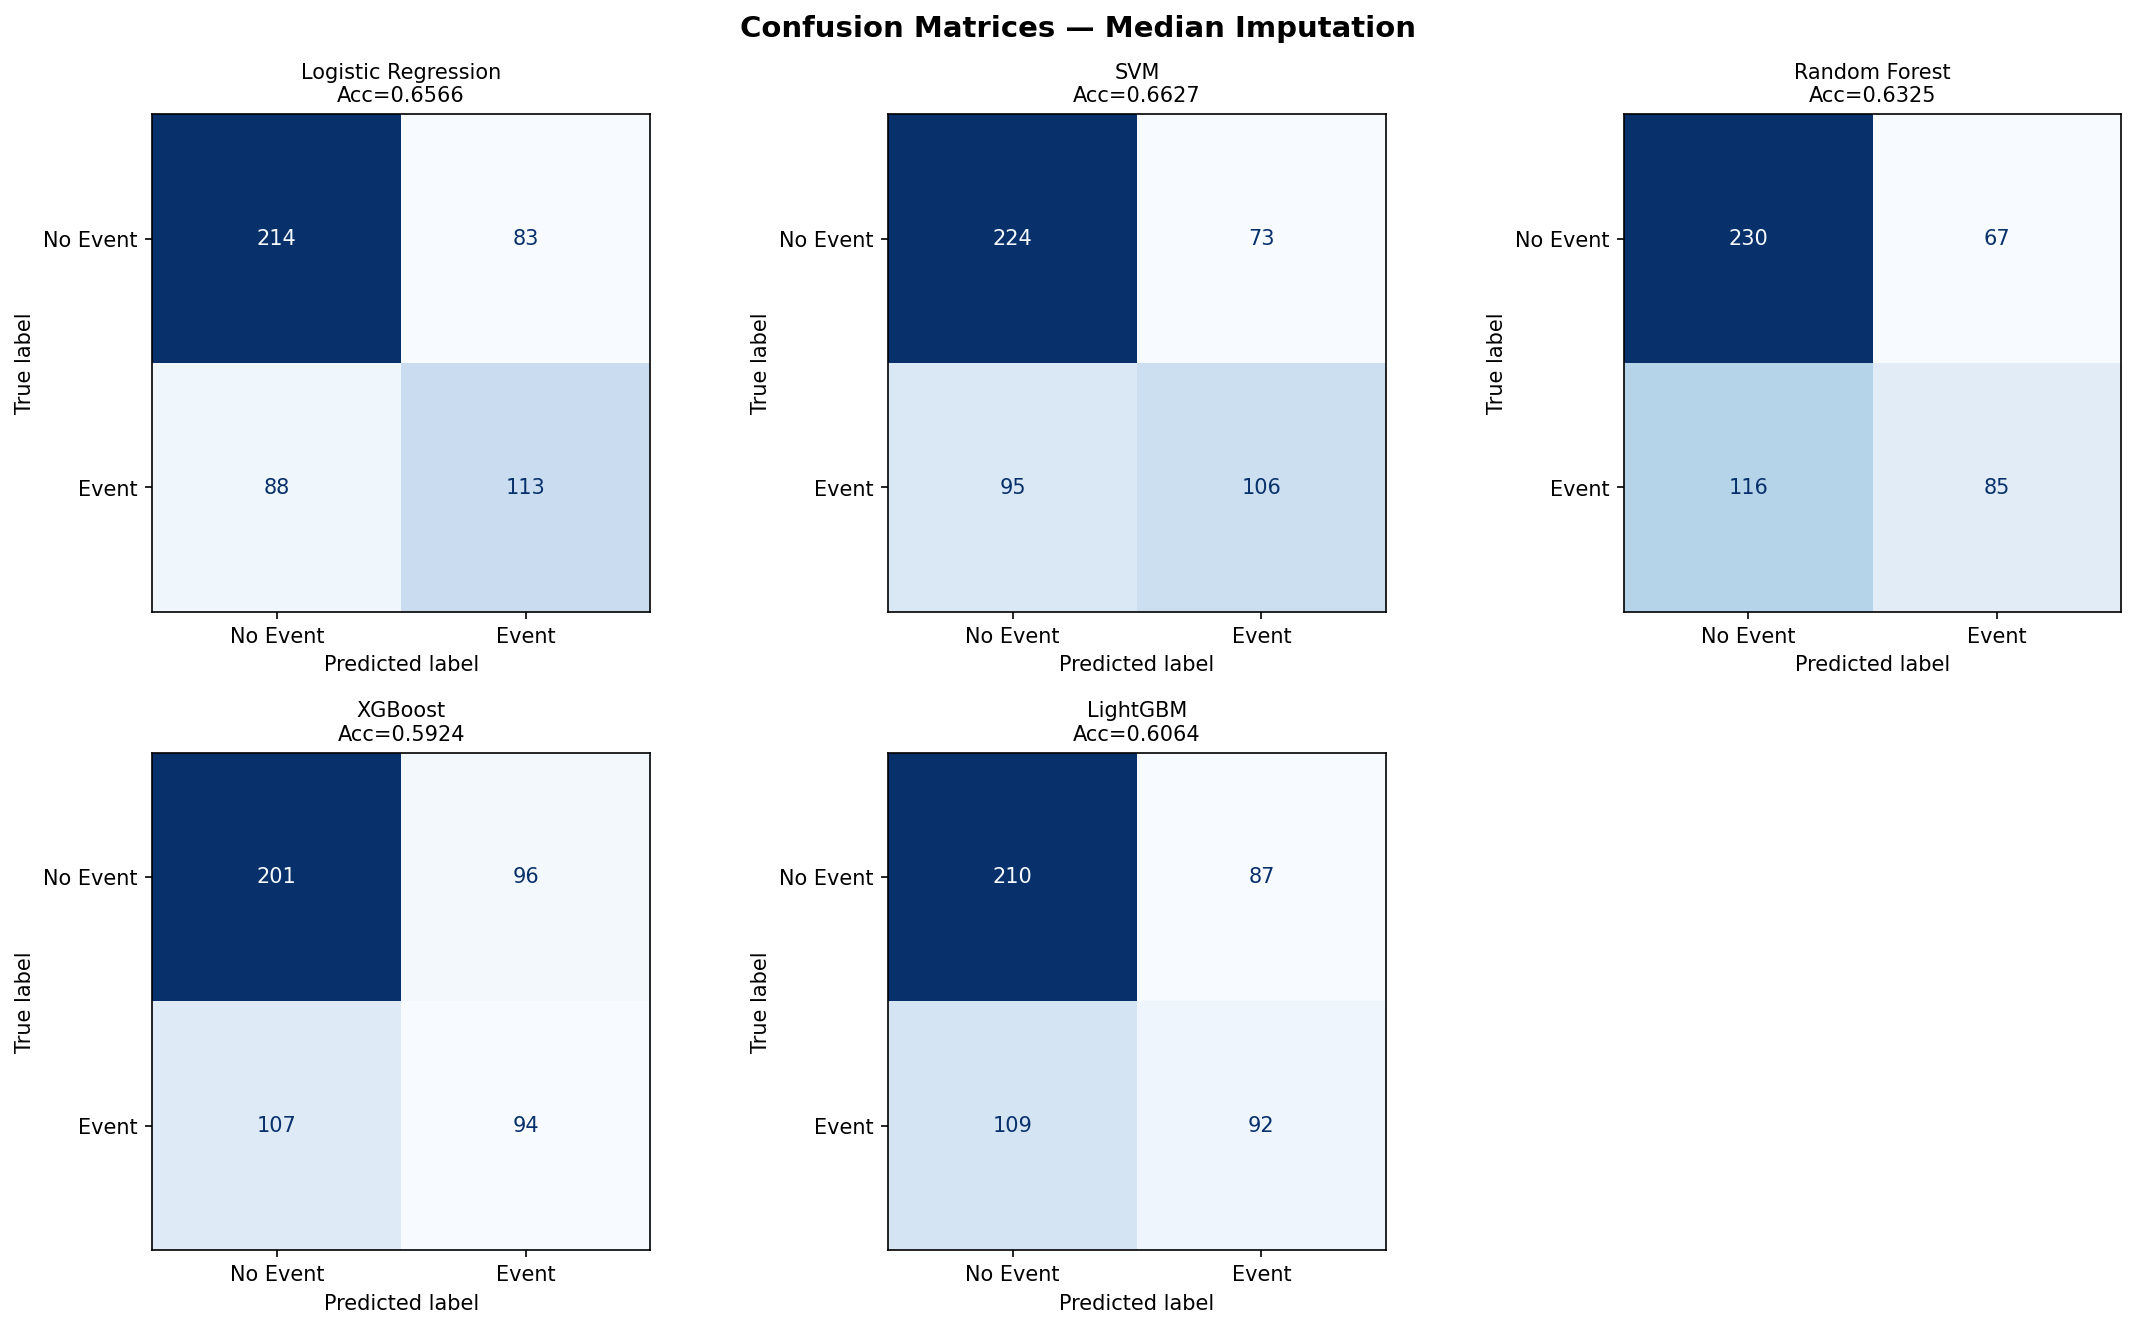
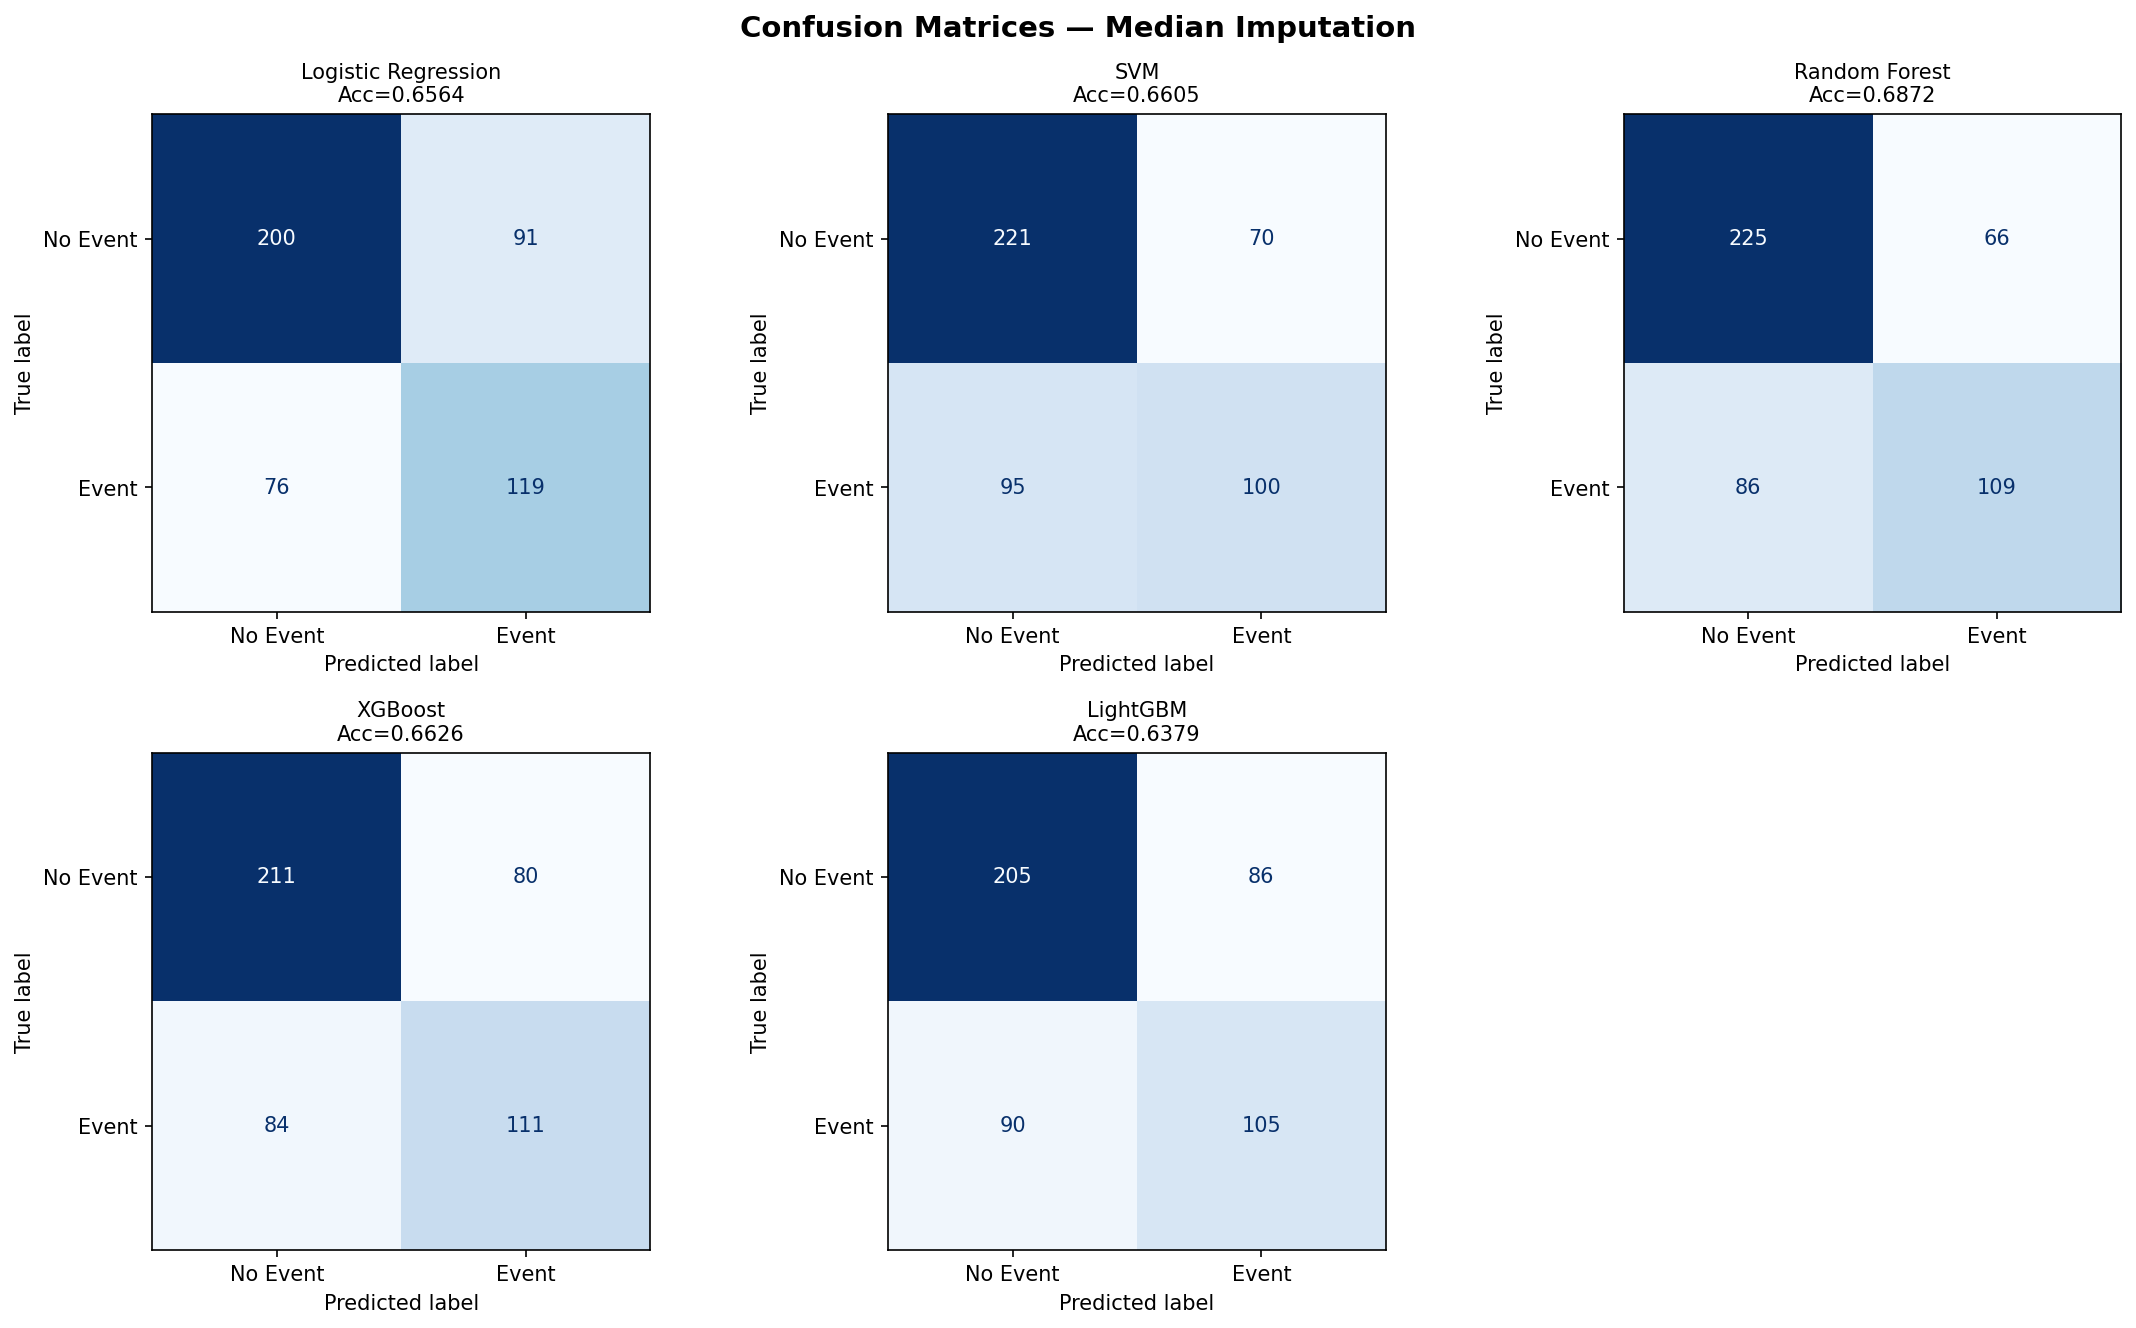
changed preprocessing

diff --git a/preprocessing/preprocessing.py b/preprocessing/preprocessing.py
@@ -25,6 +25,30 @@ df["CLAUDIN_SUBTYPE"] = df["CLAUDIN_SUBTYPE"].replace("claudin-low", "Claudin-lo
 df["HER2_SNP6"] = df["HER2_SNP6"].replace("UNDEF", pd.NA)
 df["CLAUDIN_SUBTYPE"] = df["CLAUDIN_SUBTYPE"].replace("NC", pd.NA)
 
+#Her2 & Claudin subtype contradiction fix 
+df = df[~((df["HER2_STATUS"] == "Positive") & (df["CLAUDIN_SUBTYPE"] == "LumA"))]
+print(df[(df["HER2_STATUS"] == "Positive") & (df["CLAUDIN_SUBTYPE"] == "LumA")].shape[0])  # should be 0
+
+#Claudin subtype & Er status contradiction fix
+df = df[~((df["CLAUDIN_SUBTYPE"] == "Basal") & (df["ER_IHC"] == "Positive"))]
+print(df[(df["CLAUDIN_SUBTYPE"] == "Basal") & (df["ER_IHC"] == "Positive")].shape[0])  # should be 0
+
+# Drop Stage 1 but more than 3 positive lymph nodes
+df = df[~((df["TUMOR_STAGE"] == 1) & (df["LYMPH_NODES_EXAMINED_POSITIVE"] > 3))]
+print(f"Shape after dropping: {df.shape}")
+
+#Drop Stage 4 but no positive lymph nodes
+df = df[~((df["TUMOR_STAGE"] == 4) & (df["LYMPH_NODES_EXAMINED_POSITIVE"] == 0))]
+print(df[(df["TUMOR_STAGE"] == 4) & (df["LYMPH_NODES_EXAMINED_POSITIVE"] == 0)].shape[0])  # should be 0
+
+# Drop NPI (composite of GRADE + TUMOR_SIZE + LYMPH_NODES)
+df = df.drop(columns=["NPI"])
+print(f"Shape after dropping NPI: {df.shape}")
+
+
+print("=== MISSING VALUES ===")
+print(df.isnull().sum()[df.isnull().sum() > 0].sort_values(ascending=False))
+
 # Drop only very high-missing columns
 missing_pct = df.isnull().mean()
 cols_to_drop = missing_pct[missing_pct > 0.70].index
@@ -79,7 +103,7 @@ if ord_cols:
     X_test[ord_cols] = encoder.transform(X_test[ord_cols])
 
 # One-hot encoding
-nominal_cols = X_train.select_dtypes(include="object").columns.tolist()
+nominal_cols = X_train.select_dtypes(include=["object", "string"]).columns.tolist()
 
 X_train = pd.get_dummies(X_train, columns=nominal_cols, drop_first=True)
 X_test = pd.get_dummies(X_test, columns=nominal_cols, drop_first=True)
